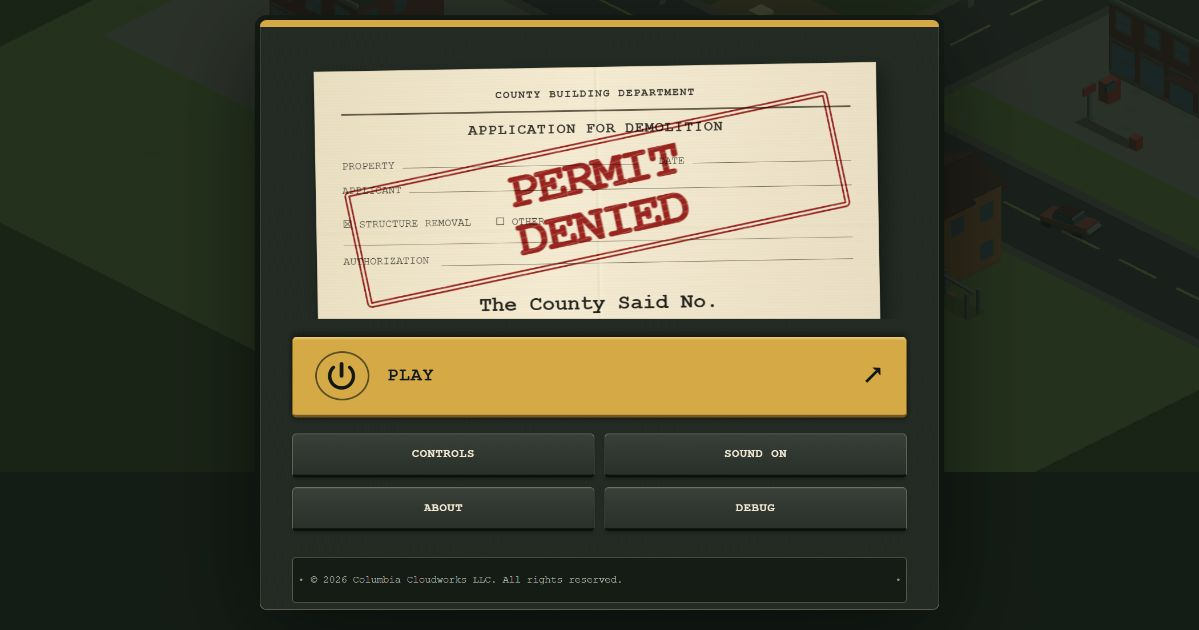
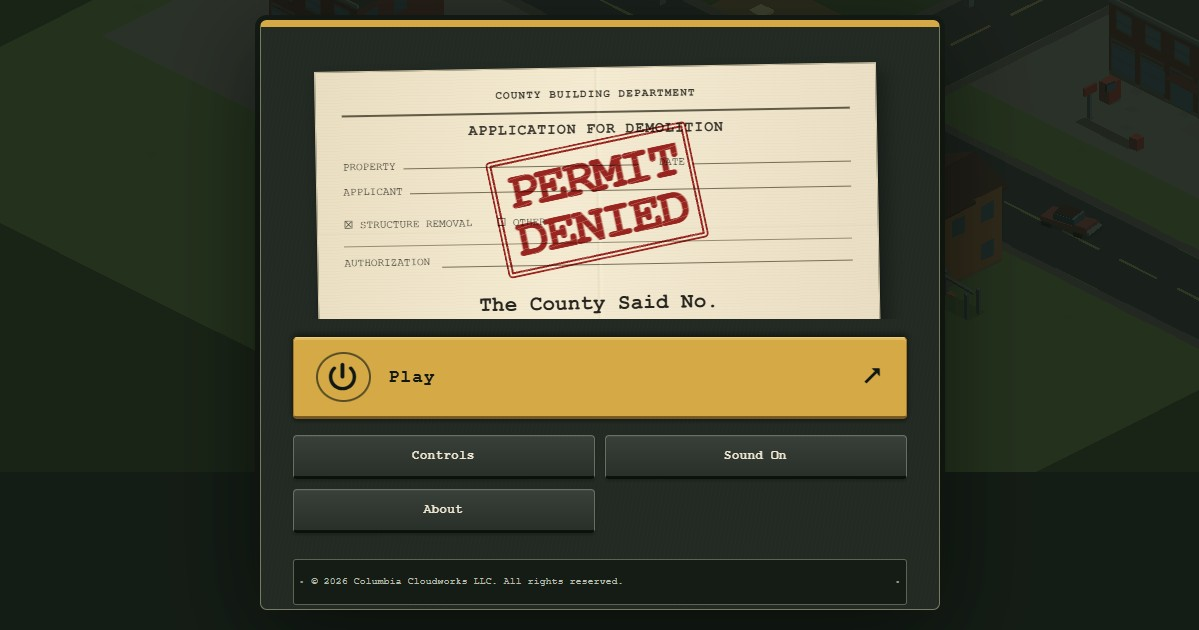
Automate title-screen screenshots; release 1.0.9 (#68)

diff --git a/README.md b/README.md
@@ -38,6 +38,14 @@ Vercel hosts the Vite static build. The GitHub repo `Columbia-Cloudworks-LLC/per
 
 IONOS is only the registrar. Nameservers are Vercel (`ns1.vercel-dns.com`, `ns2.vercel-dns.com`). No backend, accounts, or API keys. Entirely client-side.
 
+## Automated title screenshot
+
+Internal pull requests automatically capture `public/social/permit-denied-title.jpg` from the production build. The Title Screenshot workflow uses a pinned Playwright Chromium version on Ubuntu 22.04, a fresh browser session, reduced motion, and the existing 1199 × 630 social-image dimensions. It waits for the title, assets, fonts, and consecutive identical frames before saving. The image is also available as a workflow artifact.
+
+When the image changes, CI commits only that file to the PR branch, then explicitly dispatches the normal Linux/Windows CI workflow on the updated branch. Bot commits are excluded from capture to prevent loops; pushes never overwrite newer branch changes. No extra token or direct push to `main` is needed. During the initial installation PR, capture runs but automatic commits wait until CI's dispatch support has reached `main`. Fork PRs do not receive write access or automatic image updates. Release reviewers should wait for Title Screenshot and the checks on the final commit before merging.
+
+For a local preview, run `npx playwright install chromium`, `npm run build`, and `npm run screenshot:title`. The capture script starts and stops its own preview server on port 4173. CI is the canonical renderer; operating-system font differences can change local image pixels. The generated social image is an intentional tracked asset; `dist/` and temporary captures remain untracked. Social networks may cache the image after deployment.
+
 ## Controls
 
 Touch controls appear automatically on coarse-pointer devices; use `?controls=1` to preview them on desktop. The left stick drives forward/reverse and steers relative to the dozer, with a 15% dead zone and proportional speed. Hold the right POWER BLADE button to power the blade while driving. Releasing the stick coasts; releasing the blade lets an already-started powered push finish.
